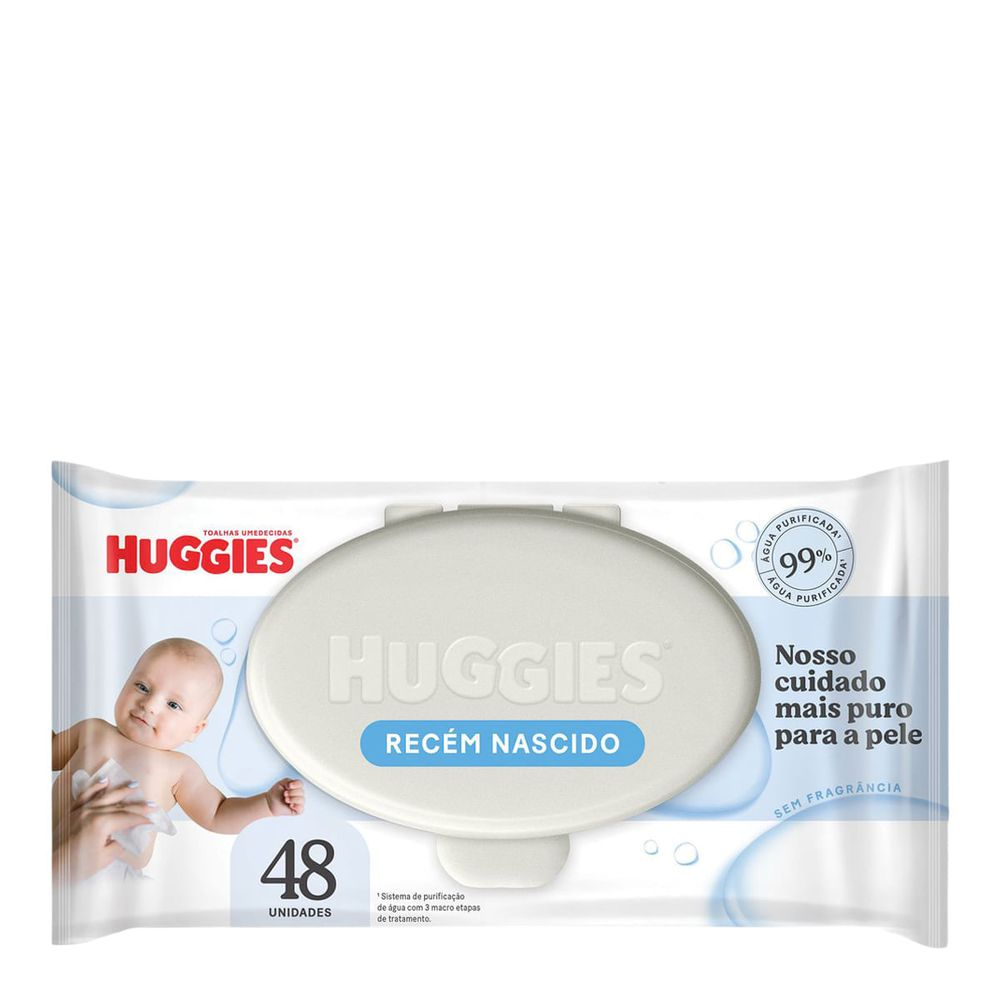
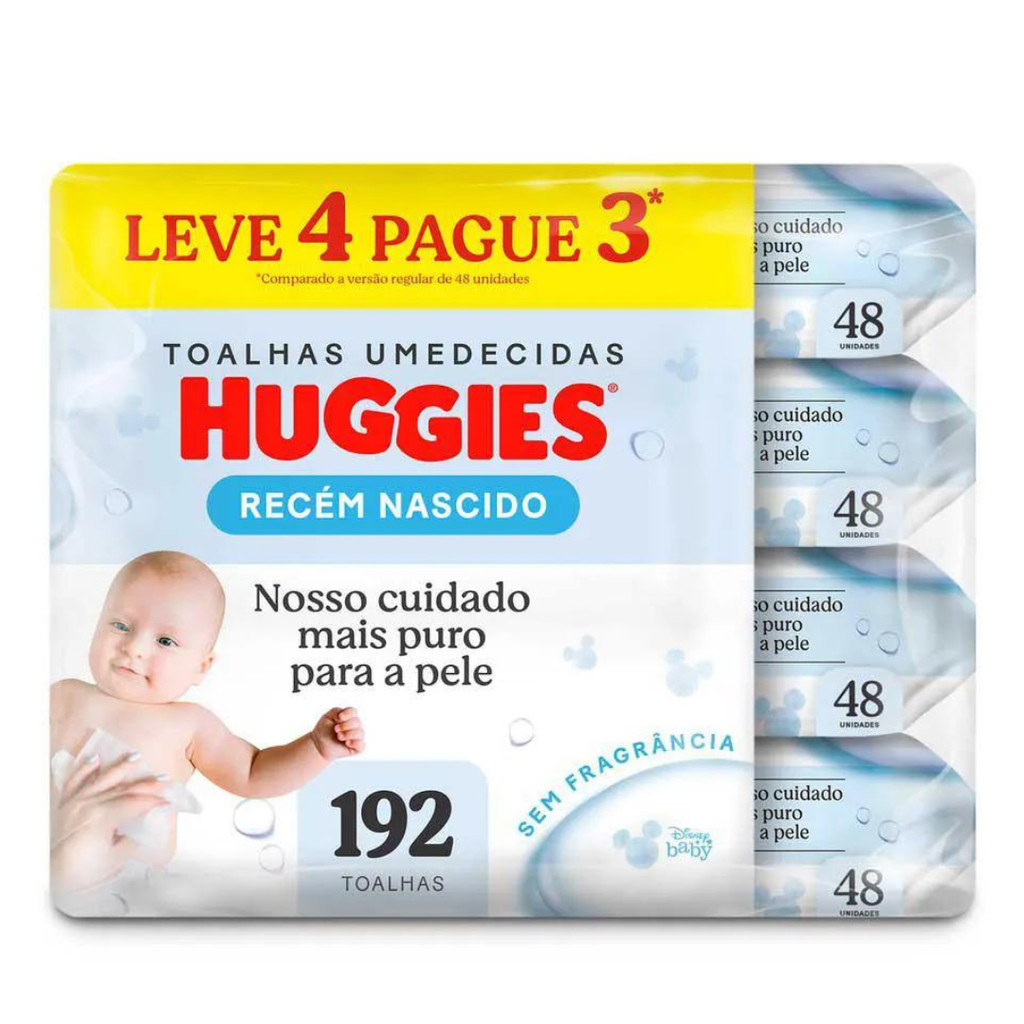
Remove kit bolsa maternidade e atualiza lenços umedecidos para Kit com nova imagem

diff --git a/index.html b/index.html
@@ -120,14 +120,13 @@ const presentes = [
   ["🍼","Kit 6 Fraldinhas de Boca Bebê",43.12,"assets/img/fraldinhas_6_boca.jpg"],
   ["🎀","Saída Maternidade",232.58,"assets/img/saida_maternidade.jpg"],
   ["🏷","5 Saquinhos Organizadores com Tags + 2 Porta Fralda/Remédio",34.50,"assets/img/saquinhos_organizadores.jpg"],
-  ["👜","Kit Bolsa Maternidade",464.60,"assets/img/kit_bolsa_maternidade.jpg"],
   ["💉","Caderneta de Vacinação",46.00,"assets/img/caderneta_vacinacao.webp"],
   ["✂","Kit Completo de Higiene Bebê 13",33.99,"assets/img/higiene_13_pecas.jpg"],
   ["👃","Aspirador Nasal Elétrico",36.05,"assets/img/aspirador_nasal.jpg"],
   ["💅","Lixa de unha Shell elétrica infantil 7 em 1",23.69,"assets/img/lixa_unha_eletrica.jpg"],
   ["🧴","Kit Shampoo + Condicionador + Sabonete Líquido + Colônia + Hidratante + Óleo Infantil",64.90,"assets/img/kit_banho_higiene.jpg"],
   ["🛏","Ninho Redutor de Berço com Travesseiro",78.39,"assets/img/ninho_redutor.jpg"],
-  ["🧻","Lenços Umedecidos Huggies Recém-nascido Sem Fragrância",45.37,"assets/img/lencos_huggies.jpg"],
+  ["🧻","Kit Lenços Umedecidos Huggies Recém-nascido Sem Fragrância",45.37,"assets/img/lencos_huggies.jpg"],
   ["🩹","Creme para Assaduras Bepantol Baby 30g",26.91,"assets/img/creme_bepantol.jpg"],
   ["🛡","Creme para Prevenção de Assaduras Cetrilan 40g",42.66,"assets/img/creme_cetrilan.png"],
   ["🌿","Creme Assaduras Weleda Babycreme",32.57,"assets/img/creme_weleda.jpg"],
